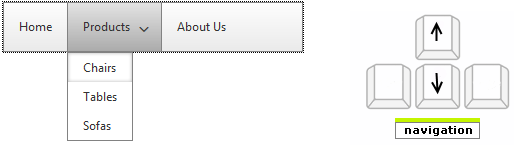
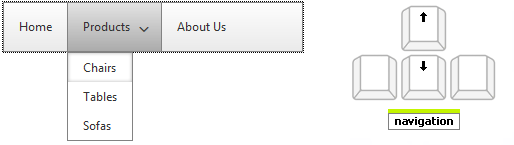
RadNavigation update Keyboard Support

Changed region(s): [[0.6848, 0.0276, 0.9961, 0.9655]]

diff --git a/controls/navigation/accessibility-and-internationalization/keyboard-support.md b/controls/navigation/accessibility-and-internationalization/keyboard-support.md
@@ -11,15 +11,53 @@ position: 1
 # Keyboard Support
 
 
+A critical requirement for software accessibility is keyboard support as a complete alternative to pointing devices (mouse, etc.). Keyboard support is comprised of command key, focus key, and keyboard navigation. **RadNavigation** seamlessly switches between mouse and keyboard navigation.
 
-The following article demonstrates the **Keyboard support** feature of the **RadNavigation** control
+Setting the control's **KeyboardNavigationSettings**, allows you to associate an activation combination (**CommandKey** + **FocusKey**), which moves focus to the Navigation's first node and enables keyboard navigation. When there are multiple **RadNavigation** controls on a given page, each of them may have a different activation combination.
 
-## 
+## Keyboard Navigation Settings
 
-In order to enable the keyboard support of the **RadNavigation** control, you should set the **TabIndex** property to **1**. Below you can find listed the key combination that you can use to navigate through the control:
+The **KeyboardNavigationSettings** exposes two properties to configure the keyboard combination that sets focus to the control: 
 
-* Use the "Tab" to focus the RadNabigation and the first node in particular: ![navigation-keyboardsupport 1](images/navigation-keyboardsupport1.png)
+* **CommandKey**: [Ctrl] , [Alt] or [Shift].
 
-* Use the "Left" and "Right" arrows to navigate horizontally trough the nodes collection ![navigation-keyboardsupport 2](images/navigation-keyboardsupport2.png)
+* **FocusKey**: An upper-case letter or number.
 
-* Use the "Up" and "Down" arrows to navigate trough the child nodes![navigation-keyboardsupport 3](images/navigation-keyboardsupport3.png)
+Pressing **CommandKey** + **FocusKey** sets the focus on the **RadNavigation**'s first node and enables keyboard navigation. 
+
+>note In the browsers certain keyboard combinations are reserved and used as shortcuts. 
+>
+
+![Keyboard Support](images/KeyboardSupport.png)
+
+````ASP.NET
+<telerik:RadNavigation ID="RadTabStrip1" runat="server" RenderMode="Lightweight">
+    <KeyboardNavigationSettings CommandKey="Alt" FocusKey="M" />
+</telerik:RadNavigation>
+````
+
+## Keyboard Navigation
+
+* Focus the **RadNavigation**'s first node by pressing [CommandKey] + [FocusKey]:
+
+![Control Focus](images/navigation-keyboardsupport1.png)
+
+* Navigate the nodes using Left and Right Arrows keys:
+
+![Node Navigation](images/navigation-keyboardsupport2.png)
+
+* Expand the submenus using Down and Up Arrows keys:
+
+![Expand Submenu](images/navigation-keyboardsupport3.png)
+
+* Select a focused node and expand its submenu by pressing Enter:
+
+![Select Enter](images/navigation-keyboardsupport6.png)
+
+* Select a focused node and expand its submenu by pressing Space bar:
+
+![Select Space](images/navigation-keyboardsupport7.png)
+
+* Close an expanded submenu by pressing Esc:
+
+![Close Submenu](images/navigation-keyboardsupport8.png)
